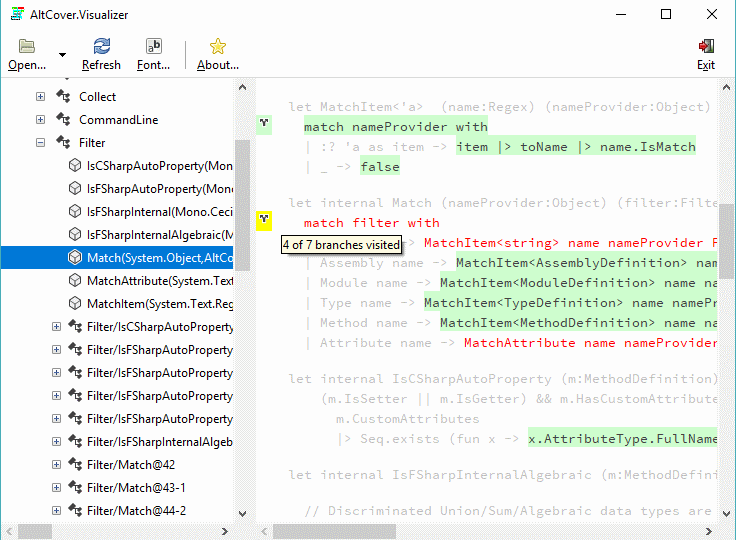
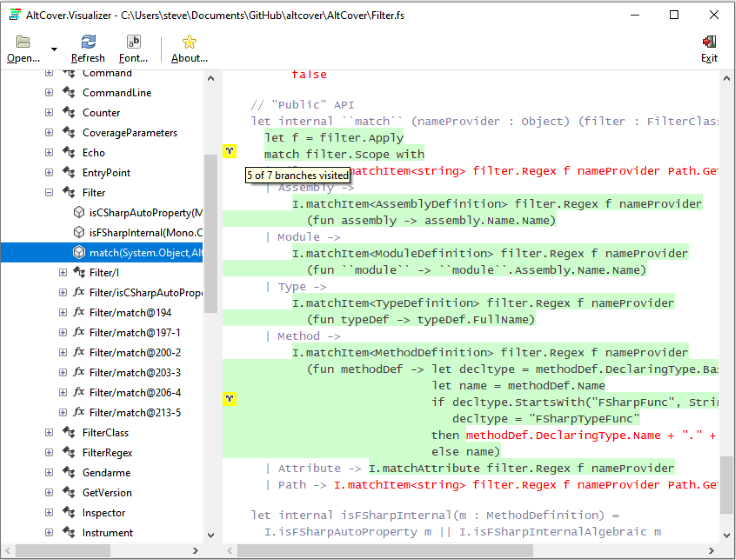
Looking good

diff --git a/README.md b/README.md
@@ -18,7 +18,7 @@ For Mono, .net framework and .net core, except as noted
 * A coverage visualizer tool 
   * For .net framework and mono (for .net framework, needs GTK# v2.12.xx installed separately -- see https://www.mono-project.com/download/stable/#download-win )
   * For .net core : uses the cross-platform AvaloniaUI toolkit
-  ![Visualizer screenshot](./AltCover.Visualizer/Screenshot.png)
+  ![Visualizer screenshot](./AltCover.Visualizer/Screenshot-Avalonia.png)
     
 ### NuGet Packages
 * [![Nuget](https://buildstats.info/nuget/AltCover) General purpose install](https://www.nuget.org/packages/AltCover) -- excludes the `dotnet test` API with FAKE and CAKE integration and the AvaloniaUI visualizer
